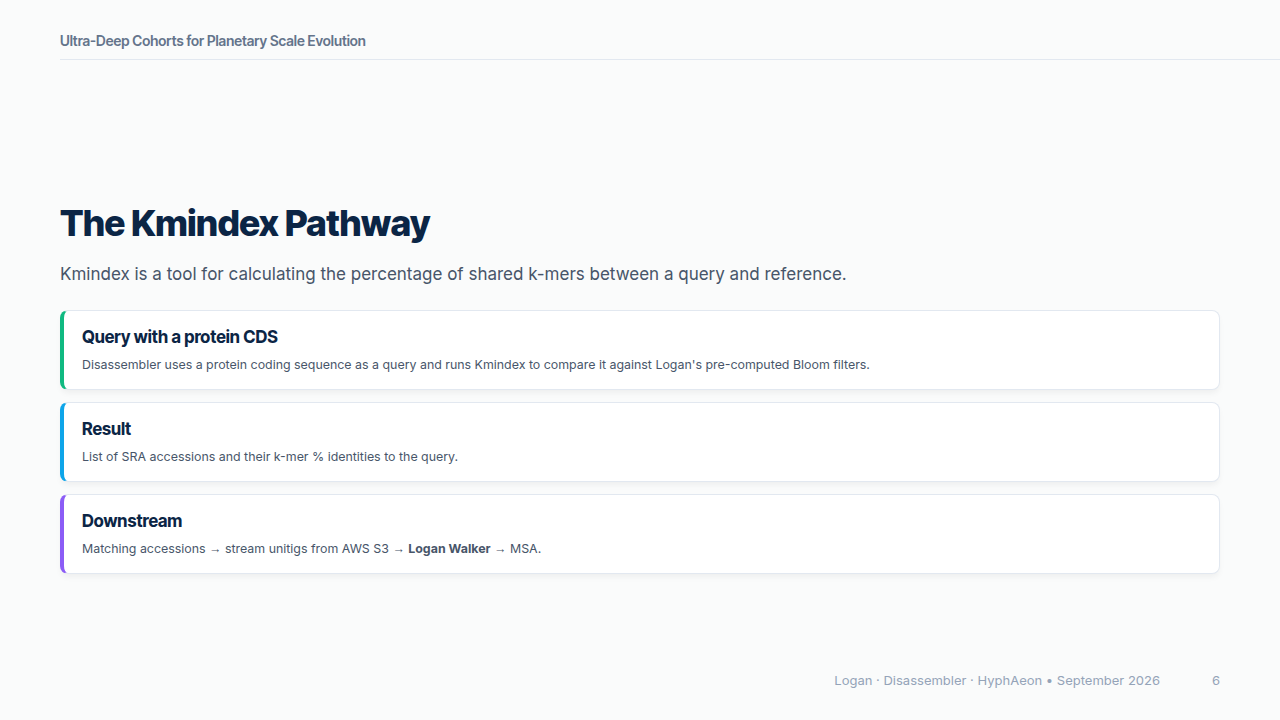
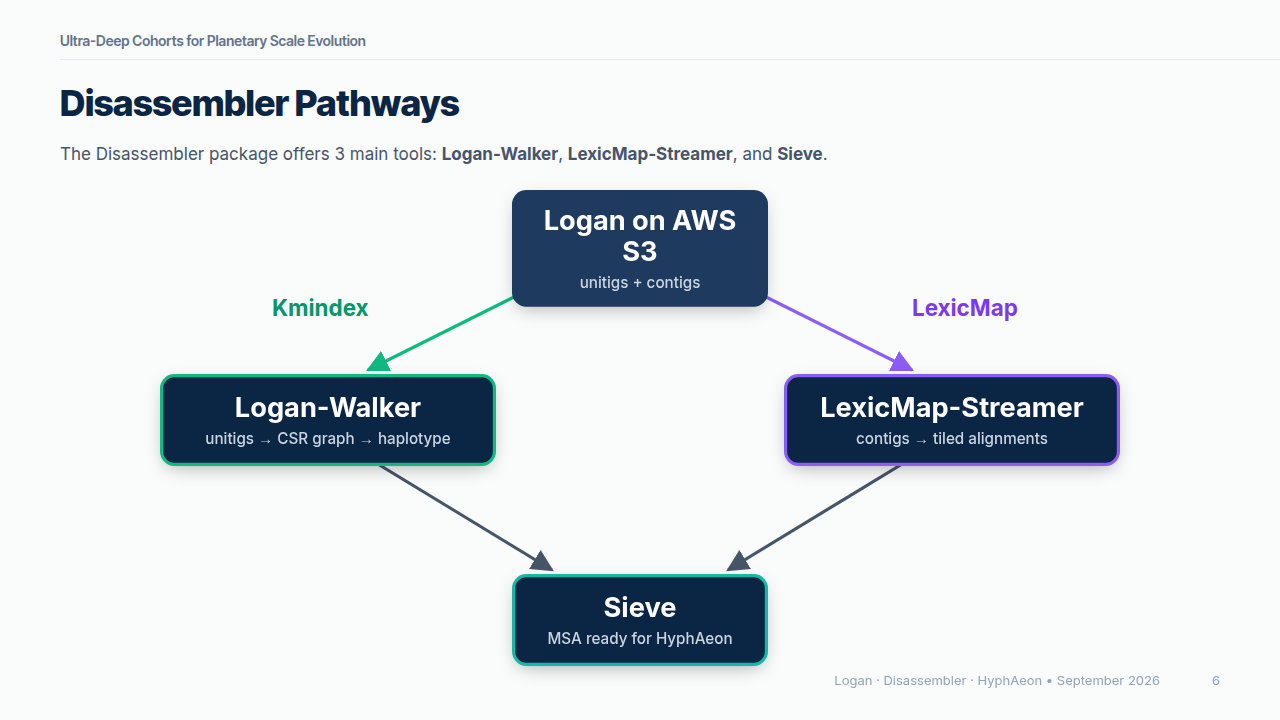
Disassembler Pathways slide

diff --git a/ultra_deep_cohorts_Sep_2026/index.html b/ultra_deep_cohorts_Sep_2026/index.html
@@ -66,12 +66,83 @@
 </foreignObject></svg><svg data-marpit-svg="" viewBox="0 0 1280 720"><foreignObject width="1280" height="720"><section id="6" data-paginate="true" data-header="Ultra-Deep Cohorts for Planetary Scale Evolution" data-footer="Logan · Disassembler · HyphAeon • September 2026" data-class="compact middle" data-theme="deckkit" lang="en-US" class="compact middle" data-marpit-pagination="6" style="--paginate:true;--header:Ultra-Deep Cohorts for Planetary Scale Evolution;--footer:Logan · Disassembler · HyphAeon • September 2026;--class:compact middle;--theme:deckkit;" data-marpit-pagination-total="12" data-size="16:9">
 <header>Ultra-Deep Cohorts for Planetary Scale Evolution</header>
 
-<h1 id="the-kmindex-pathway">The Kmindex Pathway</h1>
-<p>Kmindex is a tool for calculating the percentage of shared k-mers between a query and reference.</p>
-<div class="cards" style="--cols:1;--gap:12px"><div class="card card-left accent-emerald size-sm"><div class="card-title">Query with a protein CDS</div><div class="card-body"><p>Disassembler uses a protein coding sequence as a query and runs Kmindex to compare it against Logan's pre-computed Bloom filters.</p>
-</div></div><div class="card card-left accent-sky size-sm"><div class="card-title">Result</div><div class="card-body"><p>List of SRA accessions and their k-mer % identities to the query.</p>
-</div></div><div class="card card-left accent-purple size-sm"><div class="card-title">Downstream</div><div class="card-body"><p>Matching accessions → stream unitigs from AWS S3 → <strong>Logan Walker</strong> → MSA.</p>
-</div></div></div><footer>Logan · Disassembler · HyphAeon • September 2026</footer>
+<h1 id="disassembler-pathways">Disassembler Pathways</h1>
+<p>The Disassembler package offers 3 main tools: <strong>Logan-Walker</strong>, <strong>LexicMap-Streamer</strong>, and <strong>Sieve</strong>.</p>
+<div class="embed" style="height:520px"><div class="embed-inner" style="--w:1400px;--s:0.80"><style>
+  .pw-root {
+    position: relative;
+    width: 1400px;
+    height: 620px;
+    font-family: 'Inter', -apple-system, BlinkMacSystemFont, 'Segoe UI', system-ui, sans-serif;
+  }
+  .pw-node {
+    position: absolute;
+    background: #0b2545;
+    color: #fff;
+    border-radius: 18px;
+    padding: 18px 26px;
+    text-align: center;
+    box-sizing: border-box;
+    box-shadow: 0 8px 24px -8px rgba(0,0,0,0.35);
+  }
+  .pw-node .pw-title { font-size: 34px; font-weight: 700; line-height: 1.15; }
+  .pw-node .pw-sub   { font-size: 19px; font-weight: 500; color: #cbd5e1; margin-top: 8px; line-height: 1.25; }
+
+  .pw-source { top: 20px;  left: 540px; width: 320px; background: #1e3a5f; }
+  .pw-walker { top: 250px; left: 100px; width: 420px; border: 4px solid #10b981; }
+  .pw-stream { top: 250px; left: 880px; width: 420px; border: 4px solid #8b5cf6; }
+  .pw-sink   { top: 500px; left: 540px; width: 320px; border: 4px solid #14b8a6; }
+
+  .pw-svg { position: absolute; inset: 0; width: 100%; height: 100%; pointer-events: none; }
+
+  .pw-lbl { position: absolute; font-size: 28px; font-weight: 700; background: #fafbfb; padding: 2px 10px; border-radius: 6px; }
+  .pw-lbl.a { top: 145px; left: 230px; color: #059669; }
+  .pw-lbl.b { top: 145px; left: 1030px; color: #7c3aed; }
+</style>
+
+<div class="pw-root">
+  <svg class="pw-svg" viewBox="0 0 1400 620" preserveAspectRatio="none">
+    <defs>
+      <marker id="ah-a" viewBox="0 0 10 10" refX="9" refY="5" markerWidth="7" markerHeight="7" orient="auto-start-reverse">
+        <path d="M0,0 L10,5 L0,10 z" fill="#10b981"/>
+      </marker>
+      <marker id="ah-b" viewBox="0 0 10 10" refX="9" refY="5" markerWidth="7" markerHeight="7" orient="auto-start-reverse">
+        <path d="M0,0 L10,5 L0,10 z" fill="#8b5cf6"/>
+      </marker>
+      <marker id="ah-g" viewBox="0 0 10 10" refX="9" refY="5" markerWidth="7" markerHeight="7" orient="auto-start-reverse">
+        <path d="M0,0 L10,5 L0,10 z" fill="#475569"/>
+      </marker>
+    </defs>
+    <line x1="590" y1="130" x2="360" y2="245" stroke="#10b981" stroke-width="4" marker-end="url(#ah-a)"/>
+    <line x1="810" y1="130" x2="1040" y2="245" stroke="#8b5cf6" stroke-width="4" marker-end="url(#ah-b)"/>
+    <line x1="360" y1="355" x2="590" y2="495" stroke="#475569" stroke-width="4" marker-end="url(#ah-g)"/>
+    <line x1="1040" y1="355" x2="810" y2="495" stroke="#475569" stroke-width="4" marker-end="url(#ah-g)"/>
+  </svg>
+
+  <div class="pw-node pw-source">
+    <div class="pw-title">Logan on AWS S3</div>
+    <div class="pw-sub">unitigs + contigs</div>
+  </div>
+
+  <div class="pw-lbl a">Kmindex</div>
+  <div class="pw-lbl b">LexicMap</div>
+
+  <div class="pw-node pw-walker">
+    <div class="pw-title">Logan-Walker</div>
+    <div class="pw-sub">unitigs → CSR graph → haplotype</div>
+  </div>
+
+  <div class="pw-node pw-stream">
+    <div class="pw-title">LexicMap-Streamer</div>
+    <div class="pw-sub">contigs → tiled alignments</div>
+  </div>
+
+  <div class="pw-node pw-sink">
+    <div class="pw-title">Sieve</div>
+    <div class="pw-sub">MSA ready for HyphAeon</div>
+  </div>
+</div>
+</div></div><footer>Logan · Disassembler · HyphAeon • September 2026</footer>
 </section>
 </foreignObject></svg><svg data-marpit-svg="" viewBox="0 0 1280 720"><foreignObject width="1280" height="720"><section id="7" data-paginate="true" data-header="Ultra-Deep Cohorts for Planetary Scale Evolution" data-footer="Logan · Disassembler · HyphAeon • September 2026" data-class="compact middle" data-theme="deckkit" lang="en-US" class="compact middle" data-marpit-pagination="7" style="--paginate:true;--header:Ultra-Deep Cohorts for Planetary Scale Evolution;--footer:Logan · Disassembler · HyphAeon • September 2026;--class:compact middle;--theme:deckkit;" data-marpit-pagination-total="12" data-size="16:9">
 <header>Ultra-Deep Cohorts for Planetary Scale Evolution</header>

diff --git a/ultra_deep_cohorts_Sep_2026/assets/pathways-diagram.html b/ultra_deep_cohorts_Sep_2026/assets/pathways-diagram.html
@@ -1,0 +1,74 @@
+<style>
+  .pw-root {
+    position: relative;
+    width: 1400px;
+    height: 620px;
+    font-family: 'Inter', -apple-system, BlinkMacSystemFont, 'Segoe UI', system-ui, sans-serif;
+  }
+  .pw-node {
+    position: absolute;
+    background: #0b2545;
+    color: #fff;
+    border-radius: 18px;
+    padding: 18px 26px;
+    text-align: center;
+    box-sizing: border-box;
+    box-shadow: 0 8px 24px -8px rgba(0,0,0,0.35);
+  }
+  .pw-node .pw-title { font-size: 34px; font-weight: 700; line-height: 1.15; }
+  .pw-node .pw-sub   { font-size: 19px; font-weight: 500; color: #cbd5e1; margin-top: 8px; line-height: 1.25; }
+
+  .pw-source { top: 20px;  left: 540px; width: 320px; background: #1e3a5f; }
+  .pw-walker { top: 250px; left: 100px; width: 420px; border: 4px solid #10b981; }
+  .pw-stream { top: 250px; left: 880px; width: 420px; border: 4px solid #8b5cf6; }
+  .pw-sink   { top: 500px; left: 540px; width: 320px; border: 4px solid #14b8a6; }
+
+  .pw-svg { position: absolute; inset: 0; width: 100%; height: 100%; pointer-events: none; }
+
+  .pw-lbl { position: absolute; font-size: 28px; font-weight: 700; background: #fafbfb; padding: 2px 10px; border-radius: 6px; }
+  .pw-lbl.a { top: 145px; left: 230px; color: #059669; }
+  .pw-lbl.b { top: 145px; left: 1030px; color: #7c3aed; }
+</style>
+
+<div class="pw-root">
+  <svg class="pw-svg" viewBox="0 0 1400 620" preserveAspectRatio="none">
+    <defs>
+      <marker id="ah-a" viewBox="0 0 10 10" refX="9" refY="5" markerWidth="7" markerHeight="7" orient="auto-start-reverse">
+        <path d="M0,0 L10,5 L0,10 z" fill="#10b981"/>
+      </marker>
+      <marker id="ah-b" viewBox="0 0 10 10" refX="9" refY="5" markerWidth="7" markerHeight="7" orient="auto-start-reverse">
+        <path d="M0,0 L10,5 L0,10 z" fill="#8b5cf6"/>
+      </marker>
+      <marker id="ah-g" viewBox="0 0 10 10" refX="9" refY="5" markerWidth="7" markerHeight="7" orient="auto-start-reverse">
+        <path d="M0,0 L10,5 L0,10 z" fill="#475569"/>
+      </marker>
+    </defs>
+    <line x1="590" y1="130" x2="360" y2="245" stroke="#10b981" stroke-width="4" marker-end="url(#ah-a)"/>
+    <line x1="810" y1="130" x2="1040" y2="245" stroke="#8b5cf6" stroke-width="4" marker-end="url(#ah-b)"/>
+    <line x1="360" y1="355" x2="590" y2="495" stroke="#475569" stroke-width="4" marker-end="url(#ah-g)"/>
+    <line x1="1040" y1="355" x2="810" y2="495" stroke="#475569" stroke-width="4" marker-end="url(#ah-g)"/>
+  </svg>
+
+  <div class="pw-node pw-source">
+    <div class="pw-title">Logan on AWS S3</div>
+    <div class="pw-sub">unitigs + contigs</div>
+  </div>
+
+  <div class="pw-lbl a">Kmindex</div>
+  <div class="pw-lbl b">LexicMap</div>
+
+  <div class="pw-node pw-walker">
+    <div class="pw-title">Logan-Walker</div>
+    <div class="pw-sub">unitigs → CSR graph → haplotype</div>
+  </div>
+
+  <div class="pw-node pw-stream">
+    <div class="pw-title">LexicMap-Streamer</div>
+    <div class="pw-sub">contigs → tiled alignments</div>
+  </div>
+
+  <div class="pw-node pw-sink">
+    <div class="pw-title">Sieve</div>
+    <div class="pw-sub">MSA ready for HyphAeon</div>
+  </div>
+</div>

diff --git a/ultra_deep_cohorts_Sep_2026/slides.md b/ultra_deep_cohorts_Sep_2026/slides.md
@@ -126,23 +126,12 @@ slow, meticulous analysis
 
 <!-- _class: compact middle -->
 
-# The Kmindex Pathway
+# Disassembler Pathways
 
-Kmindex is a tool for calculating the percentage of shared k-mers between a query and reference.
+The Disassembler package offers 3 main tools: **Logan-Walker**, **LexicMap-Streamer**, and **Sieve**.
 
-::: cards cols=1 gap=12px size=sm border=left
-### Query with a protein CDS {accent=emerald}
-
-Disassembler uses a protein coding sequence as a query and runs Kmindex to compare it against Logan's pre-computed Bloom filters.
-
-### Result {accent=sky}
-
-List of SRA accessions and their k-mer % identities to the query.
-
-### Downstream {accent=purple}
-
-Matching accessions → stream unitigs from AWS S3 → **Logan Walker** → MSA.
-:::
+```embed src="assets/pathways-diagram.html" w=1400px scale=0.80 h=520px
+```
 
 ---
 
